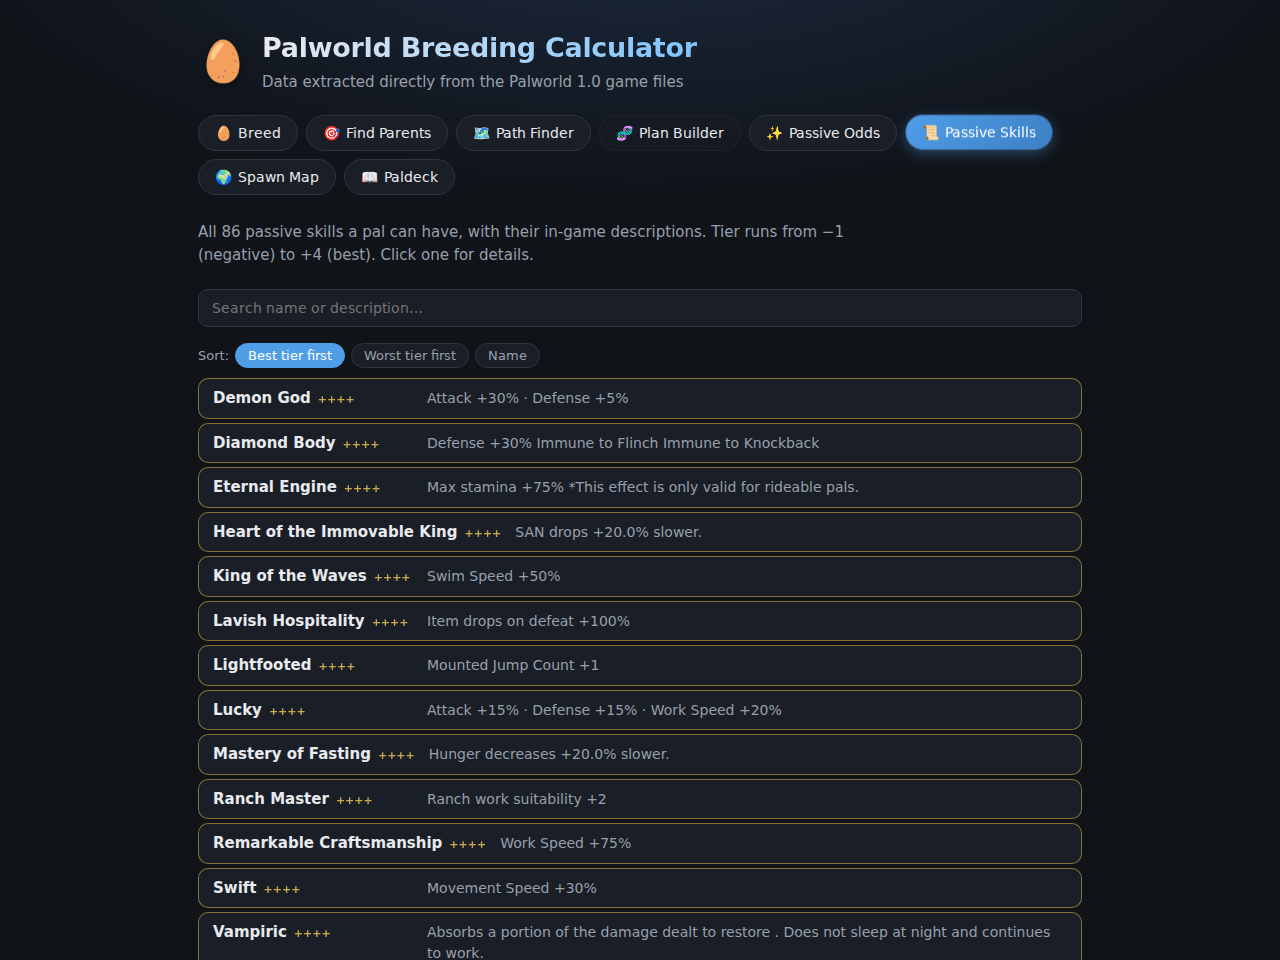
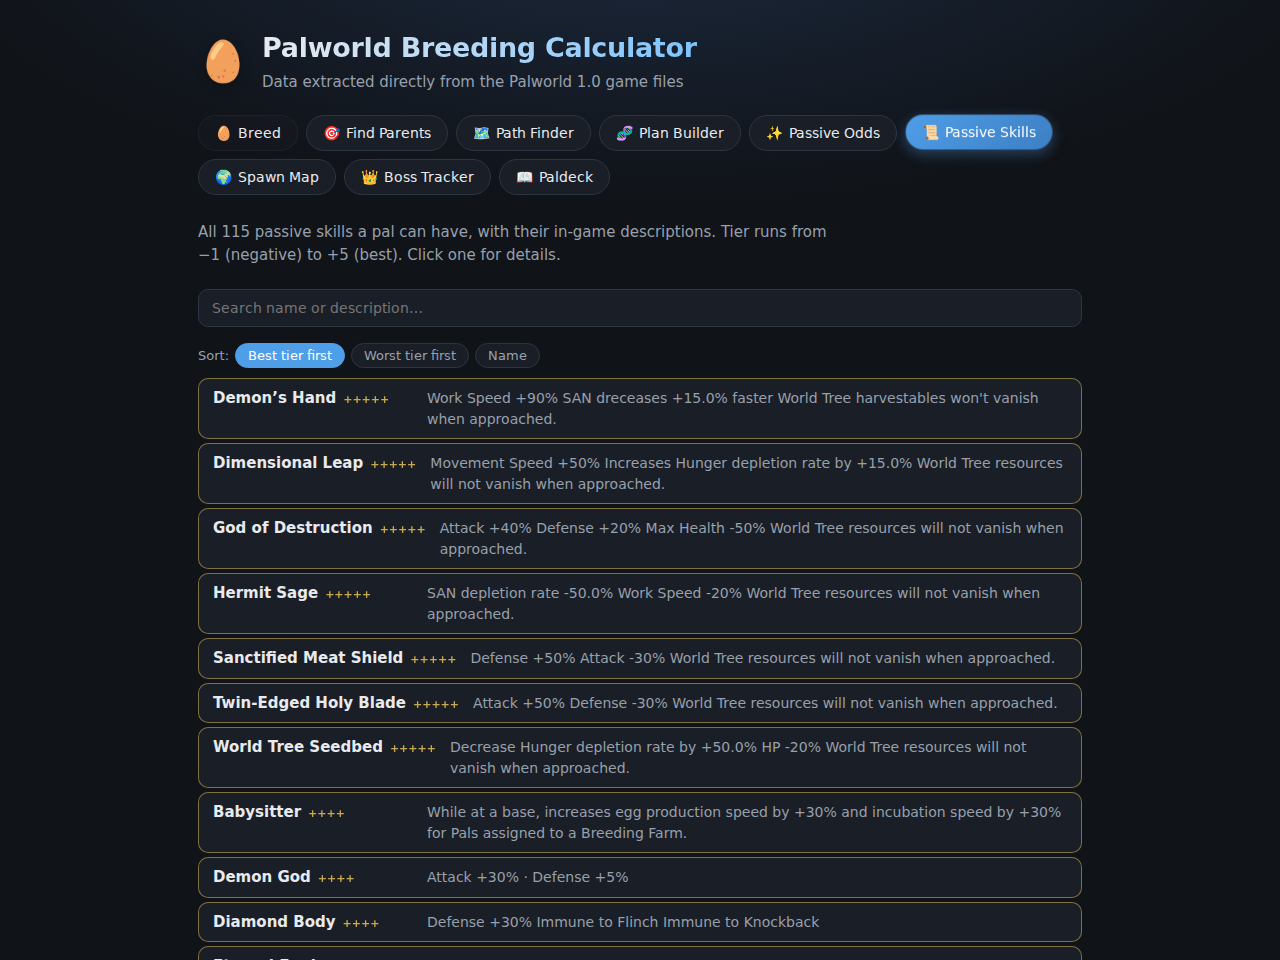
Refresh README stats and Passive Skills section
Banner now counts 9 tools, 115 passives, and 72 world bosses; the
Passive Skills section covers the innate/special passives and the +5
tier, with an updated screenshot.

diff --git a/README.md b/README.md
@@ -5,7 +5,7 @@ with every number pulled **directly from the game files** - not from stale commu
 spreadsheets. When Pocketpair ships a patch, one command detects it and re-extracts
 everything.
 
-**291 pals · 185 unique combos · 86 passives · ~150k spawn points · in-game icons and maps**
+**9 tools · 291 pals · 185 unique combos · 115 passives · 72 world bosses · ~150k spawn points · in-game icons and maps**
 
 ## ✨ No install - just open it
 
@@ -61,9 +61,11 @@ datamined 40/30/20/10 model.
 
 ## 📜 Passive Skills
 
-Every passive a pal can have, with real in-game descriptions and tier badges (-1 to +4).
-Search, sort by tier or name, and click any skill for a detail view: effect breakdown,
-wild roll chance computed from the game's lottery weights, and rare-only sourcing.
+All 115 passives a pal can have, with real in-game descriptions and tier badges (-1 up
+to the +5 World Tree passives) - including the innate ones like Legend, the element
+Emperor and Lord set, and mutation pal passives. Search, sort by tier or name, and click
+any skill for a detail view: effect breakdown, wild roll chance computed from the game's
+lottery weights, and sourcing (lottery, lucky-only, or innate/special).
 
 ![Passive Skills](docs/screenshots/ss-passives.png)
 